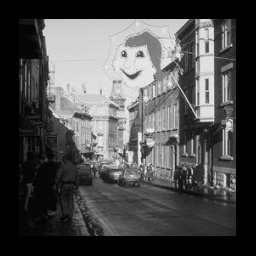
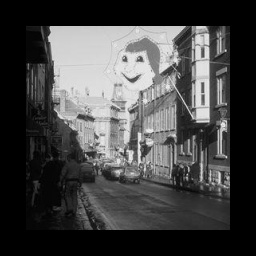
Perfection

diff --git a/Fitness.py b/Fitness.py
@@ -22,7 +22,7 @@ class Fitness:
         
         original_transformed_keypoints = self.transformation(self.keypoints, self.transformation_value)
         distances = np.linalg.norm(original_transformed_keypoints[:, np.newaxis] - self.transformed_keypoints, axis=2)
-        matches = distances == 0
+        matches = distances <= 3
         good_matches = 0
 
         self.image = np.uint8(self.image)
@@ -34,18 +34,18 @@ class Fitness:
             if True in match:
                 good_matches += 1
                 x, y = self.keypoints[i].ravel().astype(int)
-                self.image = cv2.circle(self.image, center=(y, x), radius=5, color=(0, 255, 0), thickness=-1)
+                self.image = cv2.circle(self.image, center=(y, x), radius=1, color=(0, 255, 0), thickness=-1, )
             else:
                 x, y = self.keypoints[i].ravel().astype(int)
-                self.image = cv2.circle(self.image, center=(y, x), radius=5, color=(0, 0, 255), thickness=-1)
+                self.image = cv2.circle(self.image, center=(y, x), radius=1, color=(0, 0, 255), thickness=-1)
 
         for i, match in enumerate(matches.transpose()):
             if True in match:
                 x, y = self.transformed_keypoints[i].ravel().astype(int)
-                self.transformed_image = cv2.circle(self.transformed_image, center=(y, x), radius=5, color=(0, 255, 0), thickness=-1)
+                self.transformed_image = cv2.circle(self.transformed_image, center=(y, x), radius=1, color=(0, 255, 0), thickness=-1)
             else:
                 x, y = self.transformed_keypoints[i].ravel().astype(int)
-                self.transformed_image = cv2.circle(self.transformed_image, center=(y, x), radius=5, color=(0, 0, 255), thickness=-1)
+                self.transformed_image = cv2.circle(self.transformed_image, center=(y, x), radius=1, color=(0, 0, 255), thickness=-1)
 
         # Calcular tasa de repetibilidad
         if good_matches == 0:

diff --git a/Transformations.py b/Transformations.py
@@ -20,7 +20,7 @@ def rotation(coordenadas, angulo_grados):
                   [np.sin(angulo_radianes), np.cos(angulo_radianes)]])
     
     # Desplazamiento del centro si no es el origen
-    centro = np.array((0, 0))
+    centro = np.array((128, 128))
     
     # Aplicar la rotación a cada punto
     nuevas_coordenadas = []
@@ -34,3 +34,27 @@ def rotation(coordenadas, angulo_grados):
         nuevas_coordenadas.append(nueva_coordenada.tolist())
     
     return np.array(nuevas_coordenadas)
+
+def scale(coordenadas, escala):
+    """
+    Escala una matriz de coordenadas en torno a un centro (cx, cy) y factores de escala sx, sy.
+    
+    matriz: np.array de tamaño (N, 2), donde N es el número de puntos, con columnas (x, y).
+    escala: Factores de escala 
+    """
+    coordenadas = coordenadas.astype(float)
+    # Crear una copia de la matriz para no modificar la original
+    matriz_escalada = np.copy(coordenadas)
+    
+    # Restar el centro de escala
+    matriz_escalada[:, 0] -= 128  # Restar cx de todas las coordenadas x
+    matriz_escalada[:, 1] -= 128  # Restar cy de todas las coordenadas y
+
+    # Aplicar el factor de escala a las coordenadas x e y
+    matriz_escalada[:, :] *= escala  # Escalar las coordenadas y por sy
+
+    # Volver a trasladar al sistema original sumando el centro de escala
+    matriz_escalada[:, 0] += 128  # Sumar cx a todas las coordenadas x
+    matriz_escalada[:, 1] += 128  # Sumar cy a todas las coordenadas y
+
+    return np.array(matriz_escalada.astype(int))

diff --git a/Main.py b/Main.py
@@ -76,8 +76,8 @@ def main(img1, img2, umbral_deteccion, population_size, genotype_length, low_lim
 
 if __name__ == '__main__':
     # Parameters
-    IMG1 = cv2.imread('img/Imagen2.jpg')
-    IMG2 = cv2.imread('img/Translation2.jpg')
+    IMG1 = cv2.imread('img/Imagen3.jpg')
+    IMG2 = cv2.imread('img/Scale3.jpg')
     UMBRAL = 0.95
     POPULATION_SIZE = 20
     GENOTYPE_LENGTH = 50
@@ -85,12 +85,12 @@ if __name__ == '__main__':
     UP_LIM_GEN = 255
     F = 0.5  # Xm = Xi + f (x2 - x3)
     CROSSOVER_RATE = 0.7
-    GENERATIONS = 10
+    GENERATIONS = 100
     TERMINATION_CRITERIA = 95.0
     WR = 3
-    LOW_LIM_KN = 1  # KN -> Keypoints Number
+    LOW_LIM_KN = 100  # KN -> Keypoints Number
     UP_LIM_KN = 3000
-    TRANSFORMATION = tr.translate
-    TRANSFORMATION_VALUE = 20
+    TRANSFORMATION = tr.scale
+    TRANSFORMATION_VALUE = 0.8
 
     main(IMG1, IMG2, UMBRAL, POPULATION_SIZE, GENOTYPE_LENGTH, LOW_LIM_GEN, UP_LIM_GEN, F, CROSSOVER_RATE, GENERATIONS, TERMINATION_CRITERIA, WR, LOW_LIM_KN, UP_LIM_KN, TRANSFORMATION, TRANSFORMATION_VALUE)

diff --git a/Process.py b/Process.py
@@ -17,6 +17,8 @@ def normalizar(matriz):
         return 0
     min_val = np.min(matriz)
     max_val = np.max(matriz)
+    if min_val == np.nan or max_val == np.nan or max_val == 0.0 or min_val == -np.inf or max_val == np.inf:
+        return 0
     matriz_normalizada = (matriz - min_val) / (max_val - min_val)
     return matriz_normalizada
 
@@ -29,7 +31,7 @@ def repeatability(population, img1, img2, umbral_deteccion, wr, low_keypoints_nu
     # Proceso de mapeo
     filter_MP = [MP().generate(population[i], wr) for i in range(len(population))]
     # filter_MP = ['ft.Gau1(img-ft.Log(ft.Gau1(ft.Lap(ft.Gau2(ft.Gau1(ft.Gau2(ft.Gau1(img))+ft.Gau2(ft.Gau2(img)))/ft.LapG1(img))))))']
-
+    
     img1 = np.where(img1 == 0, 1e-4, img1)
     img2 = np.where(img2 == 0, 1e-4, img2)
     # Evaluacion de los filtros

diff --git a/tool/Rotacion.py b/tool/Rotacion.py
@@ -19,5 +19,5 @@ def rotation(image, degree):
     return rotated_image
 
 for i in range(1, 6):    
-    rotated_image = rotation(cv2.imread(f'../img/Imagen{i}.jpg'), degree=-45)
-    cv2.imwrite(f'../img/Rotation{i}.JPG', rotated_image)
+    rotated_image = rotation(cv2.imread(f'../img/Imagen{i}.jpg'), degree=30)
+    cv2.imwrite(f'../img/Rotation{i}.jpg', rotated_image)

diff --git a/tool/Ruido.py b/tool/Ruido.py
@@ -31,5 +31,5 @@ def add_gaussian_noise(image, snr_db):
     return noisy_image
 
 for i in range(1, 6):
-    noisy_img = add_gaussian_noise(cv2.imread(f'../img/Imagen{i}.jpg'), 10)
+    noisy_img = add_gaussian_noise(cv2.imread(f'../img/Imagen{i}.jpg'), 5)
     cv2.imwrite(f'../img/Noisy{i}.jpg', noisy_img)

diff --git a/tool/Scale.py b/tool/Scale.py
@@ -23,5 +23,5 @@ def scale(image, scale_value):
     return output_image
 
 for i in range(1, 6):
-    image = scale(cv2.imread(f'../img/Imagen{i}.jpg'), 75)
+    image = scale(cv2.imread(f'../img/Imagen{i}.jpg'), 80)
     cv2.imwrite(f'../img/Scale{i}.jpg', image)
